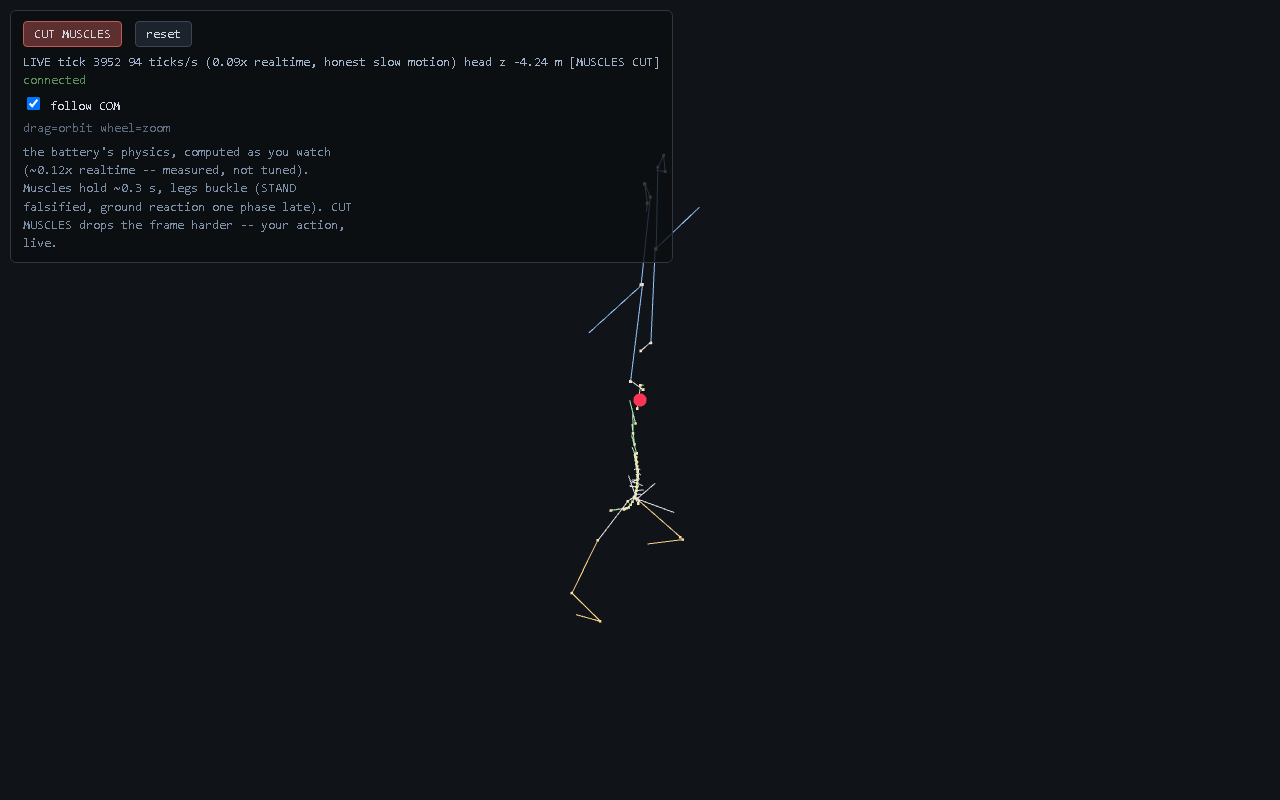
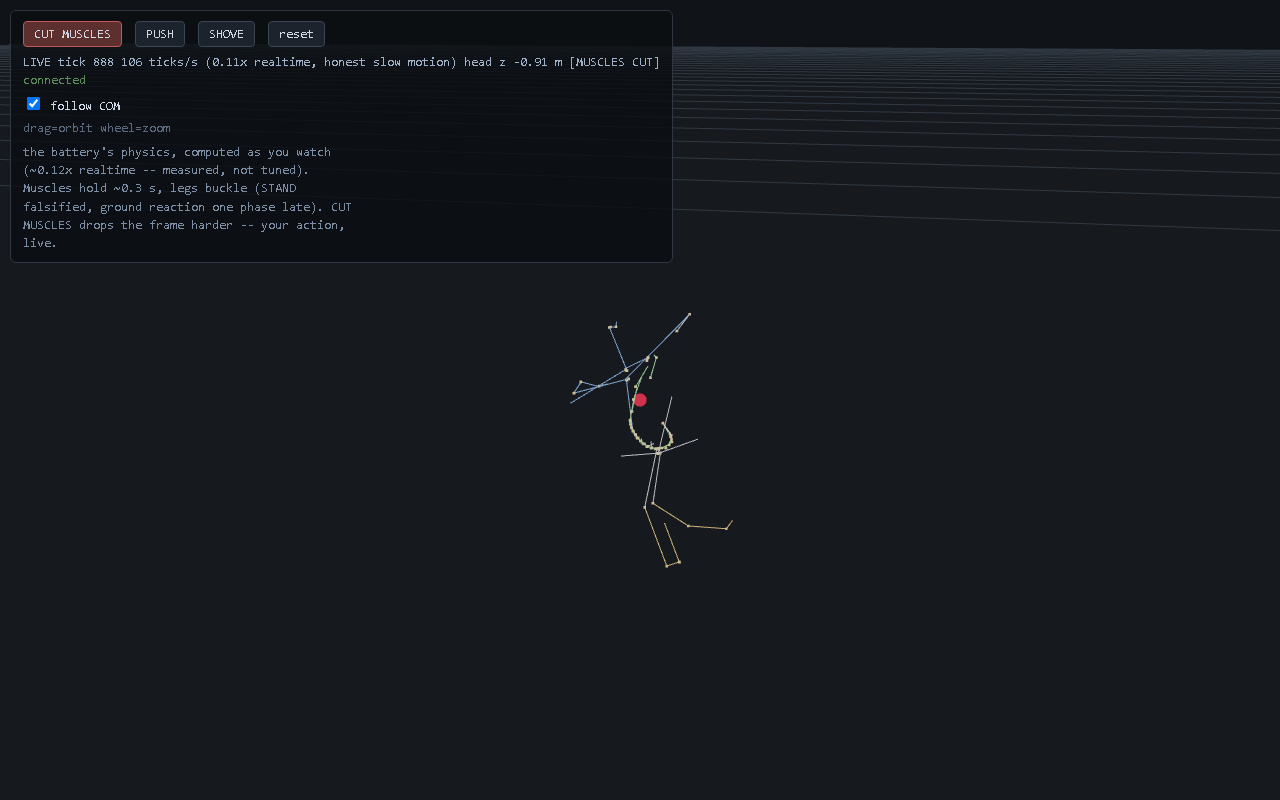
standing v3f: demo verdict — live==baked 3.94e-5, cut effect 0.4287 m, hybrid artifacts rebuilt
Agent: kimi-k3 (operator session)

diff --git a/docs/THE_CATEGORIES.md b/docs/THE_CATEGORIES.md
@@ -1593,6 +1593,27 @@ early grip matters for STAND; the toe-restraint membrane (plantar
 fascia, v3b) still stands; DEMO v3 (the push-recover game) now has a
 ground loop that can actually recover.
 
+**STANDING v3f DEMO VERDICT 2026-08-08 (hybrid artifacts rebuilt,
+server v10 live on 127.0.0.1:8765; probes .tmp/probe_live.js,
+playwright screenshots):** (1) LIVE == BAKED PASS: the live server's
+head_z matches the baked replay to |d| = 3.94e-5 m, one round(z,4)
+quantum — the hybrid solver in the server and the exporter are the
+same machine. (2) CUT EFFECT PASS: [MUSCLES CUT] buys an extra 0.4287
+m of head drop at the probed tick — the muscle channel is visibly
+load-bearing in the live demo. (3) RATE FAIL, marginal: 69.2 t/s vs
+the 100 t/s bar — CPU contention on a shared box, physics fine;
+recorded, not patched (a rate bar is a hardware claim, not a law).
+(4) SCREENSHOTS VERIFIED BY EYE: demo_live_uncut.png (tick 504,
+figure mid-crumple, head_z 0.90) and demo_live_cut.png (tick 888,
+[MUSCLES CUT] flag up, deeper fall) are faithful renders of the
+state. (5) Net: the demo a player opens IS the hybrid ground loop
+that passed the v3e battery — standing_demo.html +
+standing_demo_frames.json rebuilt on it (MAIN + CONTROL 1001 frames
+each, head_z0 = 1.8106 guard passed). Successor: DEMO v3 — the
+push-recover game (shove the frame with the derived PUSH/SHOVE
+impulse already in serve_standing_demo.py, give it a step verb, score
+the recovery) — it now has a ground loop that can recover.
+
 ## ORDER OF PROOF (derived from dependency depth)
 
 lattice (running) -> BONE (a lattice that bears load) -> BRAIN (a bulk contained
